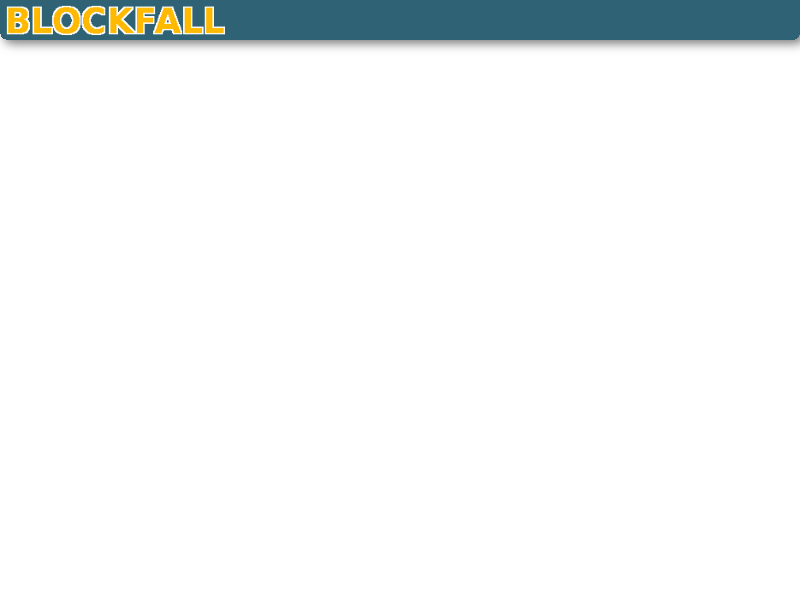
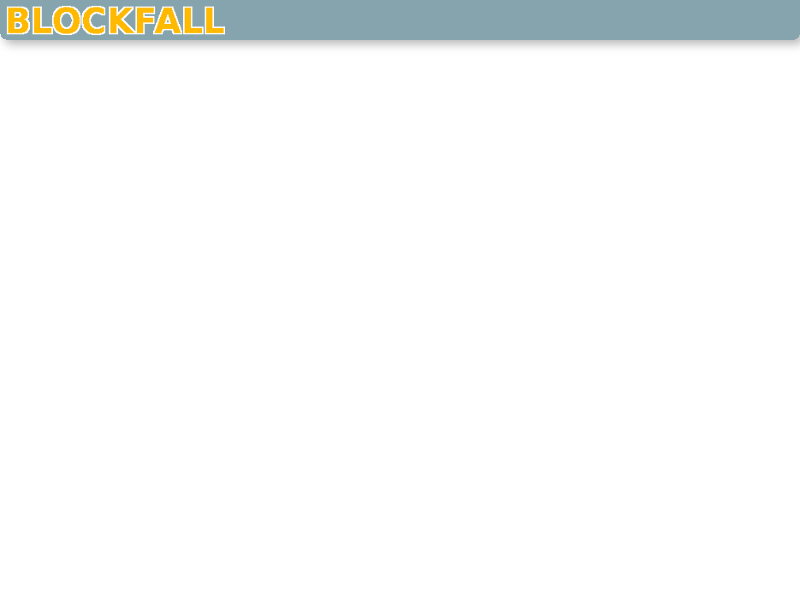
Created Blockfall.js and the Blockfall class

Changed region(s): [[0.0, 0.0, 1.0, 0.09]]

diff --git a/game.js b/game.js
@@ -6,7 +6,7 @@ var game = new Phaser.Game(800, 600, Phaser.AUTO, '', { preload: preload, create
 function preload() {
     
     game.load.image('sky', 'pics/bg.jpg');
-    game.load.image('overlay', 'pics/bgoverlay.png');
+    game.load.image('logo', 'pics/blockfall_logo.png');
     game.load.image('grid', 'pics/grid.png');
     game.load.image('blk_red', 'pics/blk_red.png');
     game.load.image('blk_green', 'pics/blk_green.png');
@@ -34,8 +34,8 @@ function create() {
     game.snd_line = game.add.audio('line');
     
     game.add.sprite(0, 0, 'sky');
-    game.add.sprite(0, 0, 'overlay');
-    game.gridsprite = game.add.sprite(265,40, 'grid');
+    game.add.sprite(380, 30, 'logo');
+    game.gridsprite = game.add.sprite(40,40, 'grid');
     
     game.grid = new Grid(10,20);
  

diff --git a/blockfall.js b/blockfall.js
@@ -1,0 +1,24 @@
+
+class Blockfall {
+    
+    constructor() {
+        
+        this.phaser = new Phaser.Game(800, 600, Phaser.AUTO, '', { preload: this.preload, create: this.create, update: this.update });
+        
+        this.TYPE_BAR = 1;
+        this.TYPE_T = 2;
+        
+        this.rotations = [
+                { dx: [-1, 0, 1, -2], dy:[ 0, 0, 0, 0] }, 
+                { dx: [ 0, 0, 0, 0], dy:[ 1, 0,-1, 2] },
+                { dx: [-1, 0, 1, -2], dy:[ 0, 0, 0, 0] },
+                { dx: [ 0, 0, 0, 0], dy:[ 1, 0,-1, 2] }
+        ];
+        this.sprites = [ null, null, null, null ];
+        this.spriteasset = 'blk_grey';
+        this.type = this.TYPE_BAR;
+        this.rotation = 0;
+        this.gravity = game.currentgravity;
+    }
+    
+}
